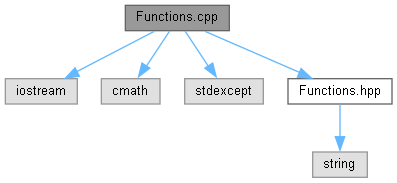
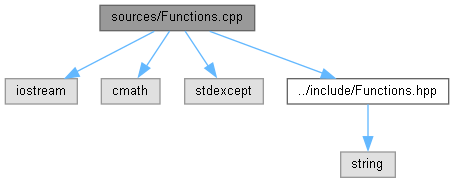
-Added generic Makefile -Moved cpp files to sources dir -Moved hpp file to include dir

Changed region(s): [[0.0, 0.0, 0.9975, 0.5738], [0.7254, 0.5738, 0.937, 0.9836], [0.5139, 0.3279, 0.5441, 0.4098]]

diff --git a/docs/html/_test_class_8cpp.html b/docs/html/_test_class_8cpp.html
@@ -5,7 +5,7 @@
 <meta http-equiv="X-UA-Compatible" content="IE=11"/>
 <meta name="generator" content="Doxygen 1.9.6"/>
 <meta name="viewport" content="width=device-width, initial-scale=1"/>
-<title>My Project: TestClass.cpp File Reference</title>
+<title>My Project: sources/TestClass.cpp File Reference</title>
 <link href="tabs.css" rel="stylesheet" type="text/css"/>
 <script type="text/javascript" src="jquery.js"></script>
 <script type="text/javascript" src="dynsections.js"></script>
@@ -67,6 +67,10 @@ $(function() {
 </div>
 </div>
 
+<div id="nav-path" class="navpath">
+  <ul>
+<li class="navelem"><a class="el" href="dir_08d237fc27d4ecd563f71c5d52f2fecc.html">sources</a></li>  </ul>
+</div>
 </div><!-- top -->
 <div class="header">
   <div class="summary">
@@ -84,22 +88,22 @@ $(function() {
 <code>#include &lt;string&gt;</code><br />
 <code>#include &lt;stdexcept&gt;</code><br />
 <code>#include &lt;limits&gt;</code><br />
-<code>#include &quot;Functions.hpp&quot;</code><br />
-<code>#include &quot;TestClass.hpp&quot;</code><br />
+<code>#include &quot;../include/Functions.hpp&quot;</code><br />
+<code>#include &quot;../include/TestClass.hpp&quot;</code><br />
 </div><div class="textblock"><div class="dynheader">
 Include dependency graph for TestClass.cpp:</div>
 <div class="dyncontent">
-<div class="center"><img src="_test_class_8cpp__incl.png" border="0" usemap="#a_test_class_8cpp" alt=""/></div>
-<map name="a_test_class_8cpp" id="a_test_class_8cpp">
-<area shape="rect" title="This file contains all unit test cases." alt="" coords="274,5,379,31"/>
+<div class="center"><img src="_test_class_8cpp__incl.png" border="0" usemap="#asources_2_test_class_8cpp" alt=""/></div>
+<map name="asources_2_test_class_8cpp" id="asources_2_test_class_8cpp">
+<area shape="rect" title="This file contains all unit test cases." alt="" coords="249,5,404,31"/>
 <area shape="rect" title=" " alt="" coords="5,79,77,104"/>
 <area shape="rect" title=" " alt="" coords="101,79,160,104"/>
 <area shape="rect" title=" " alt="" coords="185,79,250,104"/>
-<area shape="rect" title=" " alt="" coords="531,152,586,177"/>
+<area shape="rect" title=" " alt="" coords="561,152,615,177"/>
 <area shape="rect" title=" " alt="" coords="326,79,405,104"/>
 <area shape="rect" title=" " alt="" coords="429,79,483,104"/>
-<area shape="rect" href="_functions_8hpp_source.html" title=" " alt="" coords="507,79,611,104"/>
-<area shape="rect" href="_test_class_8hpp_source.html" title=" " alt="" coords="635,79,741,104"/>
+<area shape="rect" href="_functions_8hpp_source.html" title=" " alt="" coords="507,79,669,104"/>
+<area shape="rect" href="_test_class_8hpp_source.html" title=" " alt="" coords="693,79,856,104"/>
 </map>
 </div>
 </div><table class="memberdecls">
@@ -216,12 +220,11 @@ Here is the call graph for this function:</div>
 <div class="dyncontent">
 <div class="center"><img src="_test_class_8cpp_ae66f6b31b5ad750f1fe042a706a4e3d4_cgraph.png" border="0" usemap="#a_test_class_8cpp_ae66f6b31b5ad750f1fe042a706a4e3d4_cgraph" alt=""/></div>
 <map name="a_test_class_8cpp_ae66f6b31b5ad750f1fe042a706a4e3d4_cgraph" id="a_test_class_8cpp_ae66f6b31b5ad750f1fe042a706a4e3d4_cgraph">
-<area shape="rect" title="main function for test execution" alt="" coords="5,593,56,618"/>
-<area shape="rect" href="_functions_8cpp.html#ab9802825bb07d45d1b36871feb634842" title="Prints the formatted message log to the console." alt="" coords="192,55,263,81"/>
-<area shape="rect" href="class_test_class.html#acdb914bc37ddc75d993a3497c1906837" title="Tests the mathematical operation function." alt="" coords="143,105,312,145"/>
+<area shape="rect" title="main function for test execution" alt="" coords="5,657,56,682"/>
+<area shape="rect" href="class_test_class.html#acdb914bc37ddc75d993a3497c1906837" title="Tests the mathematical operation function." alt="" coords="143,69,312,109"/>
 <area shape="rect" href="class_test_class.html#a8584cc5b0f527796111519020fb5362e" title="Tests the mathematical operation function." alt="" coords="137,205,318,230"/>
 <area shape="rect" href="class_test_class.html#aef815fdbbf0630c71e4da139d3d039a6" title="Tests the mathematical operation function." alt="" coords="131,561,323,586"/>
-<area shape="rect" href="class_test_class.html#ade2bd5419d1771d979ee59883b80d876" title="Tests the mathematical operation function." alt="" coords="139,617,315,657"/>
+<area shape="rect" href="class_test_class.html#ade2bd5419d1771d979ee59883b80d876" title="Tests the mathematical operation function." alt="" coords="139,649,315,689"/>
 <area shape="rect" href="class_test_class.html#a2065eec463690d60f9d3ae76982eee67" title="Tests the mathematical operation function." alt="" coords="675,705,855,730"/>
 <area shape="rect" href="class_test_class.html#a75b8e610b2260df5b77bfaa2a3fc2927" title="Tests the mathematical operation function." alt="" coords="418,796,594,836"/>
 <area shape="rect" href="class_test_class.html#abd04b0eda3df527b0aa76a0482f6e8ea" title="Tests the mathematical operation function." alt="" coords="146,1026,309,1051"/>

diff --git a/docs/html/dir_08d237fc27d4ecd563f71c5d52f2fecc.html b/docs/html/dir_08d237fc27d4ecd563f71c5d52f2fecc.html
@@ -5,7 +5,7 @@
 <meta http-equiv="X-UA-Compatible" content="IE=11"/>
 <meta name="generator" content="Doxygen 1.9.6"/>
 <meta name="viewport" content="width=device-width, initial-scale=1"/>
-<title>My Project: File List</title>
+<title>My Project: sources Directory Reference</title>
 <link href="tabs.css" rel="stylesheet" type="text/css"/>
 <script type="text/javascript" src="jquery.js"></script>
 <script type="text/javascript" src="dynsections.js"></script>
@@ -46,7 +46,6 @@ $(function() {
 /* @license-end */
 </script>
 <div id="main-nav"></div>
-</div><!-- top -->
 <!-- window showing the filter options -->
 <div id="MSearchSelectWindow"
      onmouseover="return searchBox.OnSearchSelectShow()"
@@ -68,20 +67,25 @@ $(function() {
 </div>
 </div>
 
+<div id="nav-path" class="navpath">
+  <ul>
+<li class="navelem"><a class="el" href="dir_08d237fc27d4ecd563f71c5d52f2fecc.html">sources</a></li>  </ul>
+</div>
+</div><!-- top -->
 <div class="header">
-  <div class="headertitle"><div class="title">File List</div></div>
+  <div class="headertitle"><div class="title">sources Directory Reference</div></div>
 </div><!--header-->
 <div class="contents">
-<div class="textblock">Here is a list of all documented files with brief descriptions:</div><div class="directory">
-<div class="levels">[detail level <span onclick="javascript:toggleLevel(1);">1</span><span onclick="javascript:toggleLevel(2);">2</span>]</div><table class="directory">
-<tr id="row_0_" class="even"><td class="entry"><span style="width:0px;display:inline-block;">&#160;</span><span id="arr_0_" class="arrow" onclick="toggleFolder('0_')">&#9660;</span><span id="img_0_" class="iconfopen" onclick="toggleFolder('0_')">&#160;</span><a class="el" href="dir_d44c64559bbebec7f509842c48db8b23.html" target="_self">include</a></td><td class="desc"></td></tr>
-<tr id="row_0_0_" class="odd"><td class="entry"><span style="width:32px;display:inline-block;">&#160;</span><a href="_functions_8hpp_source.html"><span class="icondoc"></span></a><b>Functions.hpp</b></td><td class="desc"></td></tr>
-<tr id="row_0_1_" class="even"><td class="entry"><span style="width:32px;display:inline-block;">&#160;</span><a href="_test_class_8hpp_source.html"><span class="icondoc"></span></a><b>TestClass.hpp</b></td><td class="desc"></td></tr>
-<tr id="row_1_" class="odd"><td class="entry"><span style="width:0px;display:inline-block;">&#160;</span><span id="arr_1_" class="arrow" onclick="toggleFolder('1_')">&#9660;</span><span id="img_1_" class="iconfopen" onclick="toggleFolder('1_')">&#160;</span><a class="el" href="dir_08d237fc27d4ecd563f71c5d52f2fecc.html" target="_self">sources</a></td><td class="desc"></td></tr>
-<tr id="row_1_0_" class="even"><td class="entry"><span style="width:32px;display:inline-block;">&#160;</span><span class="icondoc"></span><a class="el" href="_functions_8cpp.html" target="_self">Functions.cpp</a></td><td class="desc">This file contains the implementation of mathematical function operations </td></tr>
-<tr id="row_1_1_" class="odd"><td class="entry"><span style="width:32px;display:inline-block;">&#160;</span><span class="icondoc"></span><a class="el" href="_test_class_8cpp.html" target="_self">TestClass.cpp</a></td><td class="desc">This file contains all unit test cases </td></tr>
+<table class="memberdecls">
+<tr class="heading"><td colspan="2"><h2 class="groupheader"><a id="files" name="files"></a>
+Files</h2></td></tr>
+<tr class="memitem:"><td class="memItemLeft" align="right" valign="top">file &#160;</td><td class="memItemRight" valign="bottom"><a class="el" href="_functions_8cpp.html">Functions.cpp</a></td></tr>
+<tr class="memdesc:_functions_8cpp"><td class="mdescLeft">&#160;</td><td class="mdescRight">This file contains the implementation of mathematical function operations. <br /></td></tr>
+<tr class="separator:"><td class="memSeparator" colspan="2">&#160;</td></tr>
+<tr class="memitem:"><td class="memItemLeft" align="right" valign="top">file &#160;</td><td class="memItemRight" valign="bottom"><a class="el" href="_test_class_8cpp.html">TestClass.cpp</a></td></tr>
+<tr class="memdesc:_test_class_8cpp"><td class="mdescLeft">&#160;</td><td class="mdescRight">This file contains all unit test cases. <br /></td></tr>
+<tr class="separator:"><td class="memSeparator" colspan="2">&#160;</td></tr>
 </table>
-</div><!-- directory -->
 </div><!-- contents -->
 <!-- start footer part -->
 <hr class="footer"/><address class="footer"><small>

diff --git a/docs/html/_functions_8hpp_source.html b/docs/html/_functions_8hpp_source.html
@@ -5,7 +5,7 @@
 <meta http-equiv="X-UA-Compatible" content="IE=11"/>
 <meta name="generator" content="Doxygen 1.9.6"/>
 <meta name="viewport" content="width=device-width, initial-scale=1"/>
-<title>My Project: Functions.hpp Source File</title>
+<title>My Project: include/Functions.hpp Source File</title>
 <link href="tabs.css" rel="stylesheet" type="text/css"/>
 <script type="text/javascript" src="jquery.js"></script>
 <script type="text/javascript" src="dynsections.js"></script>
@@ -46,7 +46,6 @@ $(function() {
 /* @license-end */
 </script>
 <div id="main-nav"></div>
-</div><!-- top -->
 <!-- window showing the filter options -->
 <div id="MSearchSelectWindow"
      onmouseover="return searchBox.OnSearchSelectShow()"
@@ -68,6 +67,11 @@ $(function() {
 </div>
 </div>
 
+<div id="nav-path" class="navpath">
+  <ul>
+<li class="navelem"><a class="el" href="dir_d44c64559bbebec7f509842c48db8b23.html">include</a></li>  </ul>
+</div>
+</div><!-- top -->
 <div class="header">
   <div class="headertitle"><div class="title">Functions.hpp</div></div>
 </div><!--header-->
@@ -81,7 +85,7 @@ $(function() {
 <div class="line"><a id="l00007" name="l00007"></a><span class="lineno">    7</span> </div>
 <div class="line"><a id="l00009" name="l00009"></a><span class="lineno">    9</span><span class="keyword">const</span> <span class="keywordtype">int</span> LOG_LENGTH = 300;</div>
 <div class="line"><a id="l00010" name="l00010"></a><span class="lineno">   10</span> </div>
-<div class="line"><a id="l00019" name="l00019"></a><span class="lineno">   19</span><span class="keywordtype">void</span> <a class="code hl_function" href="_functions_8cpp.html#ab9802825bb07d45d1b36871feb634842">print_log</a>(<span class="keyword">const</span> std::string&amp; filename,</div>
+<div class="line"><a id="l00019" name="l00019"></a><span class="lineno">   19</span><span class="keywordtype">void</span> print_log(<span class="keyword">const</span> std::string&amp; filename,</div>
 <div class="line"><a id="l00020" name="l00020"></a><span class="lineno">   20</span>               <span class="keywordtype">int</span>                line,</div>
 <div class="line"><a id="l00021" name="l00021"></a><span class="lineno">   21</span>               <span class="keyword">const</span> std::string&amp; function,</div>
 <div class="line"><a id="l00022" name="l00022"></a><span class="lineno">   22</span>               <span class="keyword">const</span> std::string&amp; message);</div>
@@ -139,7 +143,6 @@ $(function() {
 <div class="line"><a id="l00191" name="l00191"></a><span class="lineno">  191</span> </div>
 <div class="line"><a id="l00199" name="l00199"></a><span class="lineno">  199</span>        <span class="keywordtype">double</span> <a class="code hl_function" href="class_functions.html#aac57569bf53236a9008c3f68b6b59564">getDividedValue</a>(<span class="keywordtype">int</span> a, <span class="keywordtype">int</span> b);</div>
 <div class="line"><a id="l00200" name="l00200"></a><span class="lineno">  200</span>};</div>
-<div class="ttc" id="a_functions_8cpp_html_ab9802825bb07d45d1b36871feb634842"><div class="ttname"><a href="_functions_8cpp.html#ab9802825bb07d45d1b36871feb634842">print_log</a></div><div class="ttdeci">void print_log(const std::string &amp;filename, int line, const std::string &amp;function, const std::string &amp;message)</div><div class="ttdoc">Prints the formatted message log to the console.</div><div class="ttdef"><b>Definition:</b> Functions.cpp:29</div></div>
 <div class="ttc" id="aclass_functions_html"><div class="ttname"><a href="class_functions.html">Functions</a></div><div class="ttdef"><b>Definition:</b> Functions.hpp:26</div></div>
 <div class="ttc" id="aclass_functions_html_a1619633ca4f9b1dc74b6d13232132160"><div class="ttname"><a href="class_functions.html#a1619633ca4f9b1dc74b6d13232132160">Functions::get_mVar2</a></div><div class="ttdeci">int get_mVar2()</div><div class="ttdoc">Get param value.</div><div class="ttdef"><b>Definition:</b> Functions.cpp:76</div></div>
 <div class="ttc" id="aclass_functions_html_a16e37d628b977b30cfda893cde929344"><div class="ttname"><a href="class_functions.html#a16e37d628b977b30cfda893cde929344">Functions::set_mMax_average_value</a></div><div class="ttdeci">void set_mMax_average_value(int value)</div><div class="ttdoc">Sets param value.</div><div class="ttdef"><b>Definition:</b> Functions.cpp:61</div></div>

diff --git a/docs/html/dir_d44c64559bbebec7f509842c48db8b23.html b/docs/html/dir_d44c64559bbebec7f509842c48db8b23.html
@@ -5,7 +5,7 @@
 <meta http-equiv="X-UA-Compatible" content="IE=11"/>
 <meta name="generator" content="Doxygen 1.9.6"/>
 <meta name="viewport" content="width=device-width, initial-scale=1"/>
-<title>My Project: File List</title>
+<title>My Project: include Directory Reference</title>
 <link href="tabs.css" rel="stylesheet" type="text/css"/>
 <script type="text/javascript" src="jquery.js"></script>
 <script type="text/javascript" src="dynsections.js"></script>
@@ -46,7 +46,6 @@ $(function() {
 /* @license-end */
 </script>
 <div id="main-nav"></div>
-</div><!-- top -->
 <!-- window showing the filter options -->
 <div id="MSearchSelectWindow"
      onmouseover="return searchBox.OnSearchSelectShow()"
@@ -68,20 +67,23 @@ $(function() {
 </div>
 </div>
 
+<div id="nav-path" class="navpath">
+  <ul>
+<li class="navelem"><a class="el" href="dir_d44c64559bbebec7f509842c48db8b23.html">include</a></li>  </ul>
+</div>
+</div><!-- top -->
 <div class="header">
-  <div class="headertitle"><div class="title">File List</div></div>
+  <div class="headertitle"><div class="title">include Directory Reference</div></div>
 </div><!--header-->
 <div class="contents">
-<div class="textblock">Here is a list of all documented files with brief descriptions:</div><div class="directory">
-<div class="levels">[detail level <span onclick="javascript:toggleLevel(1);">1</span><span onclick="javascript:toggleLevel(2);">2</span>]</div><table class="directory">
-<tr id="row_0_" class="even"><td class="entry"><span style="width:0px;display:inline-block;">&#160;</span><span id="arr_0_" class="arrow" onclick="toggleFolder('0_')">&#9660;</span><span id="img_0_" class="iconfopen" onclick="toggleFolder('0_')">&#160;</span><a class="el" href="dir_d44c64559bbebec7f509842c48db8b23.html" target="_self">include</a></td><td class="desc"></td></tr>
-<tr id="row_0_0_" class="odd"><td class="entry"><span style="width:32px;display:inline-block;">&#160;</span><a href="_functions_8hpp_source.html"><span class="icondoc"></span></a><b>Functions.hpp</b></td><td class="desc"></td></tr>
-<tr id="row_0_1_" class="even"><td class="entry"><span style="width:32px;display:inline-block;">&#160;</span><a href="_test_class_8hpp_source.html"><span class="icondoc"></span></a><b>TestClass.hpp</b></td><td class="desc"></td></tr>
-<tr id="row_1_" class="odd"><td class="entry"><span style="width:0px;display:inline-block;">&#160;</span><span id="arr_1_" class="arrow" onclick="toggleFolder('1_')">&#9660;</span><span id="img_1_" class="iconfopen" onclick="toggleFolder('1_')">&#160;</span><a class="el" href="dir_08d237fc27d4ecd563f71c5d52f2fecc.html" target="_self">sources</a></td><td class="desc"></td></tr>
-<tr id="row_1_0_" class="even"><td class="entry"><span style="width:32px;display:inline-block;">&#160;</span><span class="icondoc"></span><a class="el" href="_functions_8cpp.html" target="_self">Functions.cpp</a></td><td class="desc">This file contains the implementation of mathematical function operations </td></tr>
-<tr id="row_1_1_" class="odd"><td class="entry"><span style="width:32px;display:inline-block;">&#160;</span><span class="icondoc"></span><a class="el" href="_test_class_8cpp.html" target="_self">TestClass.cpp</a></td><td class="desc">This file contains all unit test cases </td></tr>
+<table class="memberdecls">
+<tr class="heading"><td colspan="2"><h2 class="groupheader"><a id="files" name="files"></a>
+Files</h2></td></tr>
+<tr class="memitem:"><td class="memItemLeft" align="right" valign="top">file &#160;</td><td class="memItemRight" valign="bottom"><b>Functions.hpp</b> <a href="_functions_8hpp_source.html">[code]</a></td></tr>
+<tr class="separator:"><td class="memSeparator" colspan="2">&#160;</td></tr>
+<tr class="memitem:"><td class="memItemLeft" align="right" valign="top">file &#160;</td><td class="memItemRight" valign="bottom"><b>TestClass.hpp</b> <a href="_test_class_8hpp_source.html">[code]</a></td></tr>
+<tr class="separator:"><td class="memSeparator" colspan="2">&#160;</td></tr>
 </table>
-</div><!-- directory -->
 </div><!-- contents -->
 <!-- start footer part -->
 <hr class="footer"/><address class="footer"><small>

diff --git a/docs/html/dir_4fef79e7177ba769987a8da36c892c5f.html b/docs/html/dir_4fef79e7177ba769987a8da36c892c5f.html
@@ -5,7 +5,7 @@
 <meta http-equiv="X-UA-Compatible" content="IE=11"/>
 <meta name="generator" content="Doxygen 1.9.6"/>
 <meta name="viewport" content="width=device-width, initial-scale=1"/>
-<title>My Project: File List</title>
+<title>My Project: build Directory Reference</title>
 <link href="tabs.css" rel="stylesheet" type="text/css"/>
 <script type="text/javascript" src="jquery.js"></script>
 <script type="text/javascript" src="dynsections.js"></script>
@@ -46,7 +46,6 @@ $(function() {
 /* @license-end */
 </script>
 <div id="main-nav"></div>
-</div><!-- top -->
 <!-- window showing the filter options -->
 <div id="MSearchSelectWindow"
      onmouseover="return searchBox.OnSearchSelectShow()"
@@ -68,20 +67,15 @@ $(function() {
 </div>
 </div>
 
+<div id="nav-path" class="navpath">
+  <ul>
+<li class="navelem"><a class="el" href="dir_4fef79e7177ba769987a8da36c892c5f.html">build</a></li>  </ul>
+</div>
+</div><!-- top -->
 <div class="header">
-  <div class="headertitle"><div class="title">File List</div></div>
+  <div class="headertitle"><div class="title">build Directory Reference</div></div>
 </div><!--header-->
 <div class="contents">
-<div class="textblock">Here is a list of all documented files with brief descriptions:</div><div class="directory">
-<div class="levels">[detail level <span onclick="javascript:toggleLevel(1);">1</span><span onclick="javascript:toggleLevel(2);">2</span>]</div><table class="directory">
-<tr id="row_0_" class="even"><td class="entry"><span style="width:0px;display:inline-block;">&#160;</span><span id="arr_0_" class="arrow" onclick="toggleFolder('0_')">&#9660;</span><span id="img_0_" class="iconfopen" onclick="toggleFolder('0_')">&#160;</span><a class="el" href="dir_d44c64559bbebec7f509842c48db8b23.html" target="_self">include</a></td><td class="desc"></td></tr>
-<tr id="row_0_0_" class="odd"><td class="entry"><span style="width:32px;display:inline-block;">&#160;</span><a href="_functions_8hpp_source.html"><span class="icondoc"></span></a><b>Functions.hpp</b></td><td class="desc"></td></tr>
-<tr id="row_0_1_" class="even"><td class="entry"><span style="width:32px;display:inline-block;">&#160;</span><a href="_test_class_8hpp_source.html"><span class="icondoc"></span></a><b>TestClass.hpp</b></td><td class="desc"></td></tr>
-<tr id="row_1_" class="odd"><td class="entry"><span style="width:0px;display:inline-block;">&#160;</span><span id="arr_1_" class="arrow" onclick="toggleFolder('1_')">&#9660;</span><span id="img_1_" class="iconfopen" onclick="toggleFolder('1_')">&#160;</span><a class="el" href="dir_08d237fc27d4ecd563f71c5d52f2fecc.html" target="_self">sources</a></td><td class="desc"></td></tr>
-<tr id="row_1_0_" class="even"><td class="entry"><span style="width:32px;display:inline-block;">&#160;</span><span class="icondoc"></span><a class="el" href="_functions_8cpp.html" target="_self">Functions.cpp</a></td><td class="desc">This file contains the implementation of mathematical function operations </td></tr>
-<tr id="row_1_1_" class="odd"><td class="entry"><span style="width:32px;display:inline-block;">&#160;</span><span class="icondoc"></span><a class="el" href="_test_class_8cpp.html" target="_self">TestClass.cpp</a></td><td class="desc">This file contains all unit test cases </td></tr>
-</table>
-</div><!-- directory -->
 </div><!-- contents -->
 <!-- start footer part -->
 <hr class="footer"/><address class="footer"><small>

diff --git a/docs/html/_functions_8cpp.html b/docs/html/_functions_8cpp.html
@@ -5,7 +5,7 @@
 <meta http-equiv="X-UA-Compatible" content="IE=11"/>
 <meta name="generator" content="Doxygen 1.9.6"/>
 <meta name="viewport" content="width=device-width, initial-scale=1"/>
-<title>My Project: Functions.cpp File Reference</title>
+<title>My Project: sources/Functions.cpp File Reference</title>
 <link href="tabs.css" rel="stylesheet" type="text/css"/>
 <script type="text/javascript" src="jquery.js"></script>
 <script type="text/javascript" src="dynsections.js"></script>
@@ -67,6 +67,10 @@ $(function() {
 </div>
 </div>
 
+<div id="nav-path" class="navpath">
+  <ul>
+<li class="navelem"><a class="el" href="dir_08d237fc27d4ecd563f71c5d52f2fecc.html">sources</a></li>  </ul>
+</div>
 </div><!-- top -->
 <div class="header">
   <div class="summary">
@@ -81,18 +85,18 @@ $(function() {
 <div class="textblock"><code>#include &lt;iostream&gt;</code><br />
 <code>#include &lt;cmath&gt;</code><br />
 <code>#include &lt;stdexcept&gt;</code><br />
-<code>#include &quot;Functions.hpp&quot;</code><br />
+<code>#include &quot;../include/Functions.hpp&quot;</code><br />
 </div><div class="textblock"><div class="dynheader">
 Include dependency graph for Functions.cpp:</div>
 <div class="dyncontent">
-<div class="center"><img src="_functions_8cpp__incl.png" border="0" usemap="#a_functions_8cpp" alt=""/></div>
-<map name="a_functions_8cpp" id="a_functions_8cpp">
-<area shape="rect" title="This file contains the implementation of mathematical function operations." alt="" coords="125,5,229,31"/>
+<div class="center"><img src="_functions_8cpp__incl.png" border="0" usemap="#asources_2_functions_8cpp" alt=""/></div>
+<map name="asources_2_functions_8cpp" id="asources_2_functions_8cpp">
+<area shape="rect" title="This file contains the implementation of mathematical function operations." alt="" coords="100,5,255,31"/>
 <area shape="rect" title=" " alt="" coords="5,79,77,104"/>
 <area shape="rect" title=" " alt="" coords="101,79,160,104"/>
 <area shape="rect" title=" " alt="" coords="185,79,263,104"/>
-<area shape="rect" href="_functions_8hpp_source.html" title=" " alt="" coords="288,79,392,104"/>
-<area shape="rect" title=" " alt="" coords="313,152,367,177"/>
+<area shape="rect" href="_functions_8hpp_source.html" title=" " alt="" coords="287,79,449,104"/>
+<area shape="rect" title=" " alt="" coords="341,152,395,177"/>
 </map>
 </div>
 </div><table class="memberdecls">
@@ -175,15 +179,6 @@ Functions</h2></td></tr>
   </table>
   </dd>
 </dl>
-<div class="dynheader">
-Here is the caller graph for this function:</div>
-<div class="dyncontent">
-<div class="center"><img src="_functions_8cpp_ab9802825bb07d45d1b36871feb634842_icgraph.png" border="0" usemap="#a_functions_8cpp_ab9802825bb07d45d1b36871feb634842_icgraph" alt=""/></div>
-<map name="a_functions_8cpp_ab9802825bb07d45d1b36871feb634842_icgraph" id="a_functions_8cpp_ab9802825bb07d45d1b36871feb634842_icgraph">
-<area shape="rect" title="Prints the formatted message log to the console." alt="" coords="104,5,175,31"/>
-<area shape="rect" href="_test_class_8cpp.html#ae66f6b31b5ad750f1fe042a706a4e3d4" title="main function for test execution" alt="" coords="5,5,56,31"/>
-</map>
-</div>
 
 </div>
 </div>

diff --git a/docs/html/_test_class_8hpp_source.html b/docs/html/_test_class_8hpp_source.html
@@ -5,7 +5,7 @@
 <meta http-equiv="X-UA-Compatible" content="IE=11"/>
 <meta name="generator" content="Doxygen 1.9.6"/>
 <meta name="viewport" content="width=device-width, initial-scale=1"/>
-<title>My Project: TestClass.hpp Source File</title>
+<title>My Project: include/TestClass.hpp Source File</title>
 <link href="tabs.css" rel="stylesheet" type="text/css"/>
 <script type="text/javascript" src="jquery.js"></script>
 <script type="text/javascript" src="dynsections.js"></script>
@@ -46,7 +46,6 @@ $(function() {
 /* @license-end */
 </script>
 <div id="main-nav"></div>
-</div><!-- top -->
 <!-- window showing the filter options -->
 <div id="MSearchSelectWindow"
      onmouseover="return searchBox.OnSearchSelectShow()"
@@ -68,6 +67,11 @@ $(function() {
 </div>
 </div>
 
+<div id="nav-path" class="navpath">
+  <ul>
+<li class="navelem"><a class="el" href="dir_d44c64559bbebec7f509842c48db8b23.html">include</a></li>  </ul>
+</div>
+</div><!-- top -->
 <div class="header">
   <div class="headertitle"><div class="title">TestClass.hpp</div></div>
 </div><!--header-->

diff --git a/docs/html/class_test_class.html b/docs/html/class_test_class.html
@@ -1250,8 +1250,8 @@ Here is the caller graph for this function:</div>
 </div>
 </div>
 <hr/>The documentation for this class was generated from the following files:<ul>
-<li><a class="el" href="_test_class_8hpp_source.html">TestClass.hpp</a></li>
-<li><a class="el" href="_test_class_8cpp.html">TestClass.cpp</a></li>
+<li>include/<a class="el" href="_test_class_8hpp_source.html">TestClass.hpp</a></li>
+<li>sources/<a class="el" href="_test_class_8cpp.html">TestClass.cpp</a></li>
 </ul>
 </div><!-- contents -->
 <!-- start footer part -->

diff --git a/docs/html/class_functions.html b/docs/html/class_functions.html
@@ -1015,8 +1015,8 @@ Here is the caller graph for this function:</div>
 </div>
 </div>
 <hr/>The documentation for this class was generated from the following files:<ul>
-<li><a class="el" href="_functions_8hpp_source.html">Functions.hpp</a></li>
-<li><a class="el" href="_functions_8cpp.html">Functions.cpp</a></li>
+<li>include/<a class="el" href="_functions_8hpp_source.html">Functions.hpp</a></li>
+<li>sources/<a class="el" href="_functions_8cpp.html">Functions.cpp</a></li>
 </ul>
 </div><!-- contents -->
 <!-- start footer part -->

diff --git a/sources/TestClass.cpp b/sources/TestClass.cpp
@@ -15,8 +15,8 @@
 #include <stdexcept>
 #include <limits>
 
-#include "Functions.hpp"
-#include "TestClass.hpp"
+#include "../include/Functions.hpp"
+#include "../include/TestClass.hpp"
 
 #ifndef TESTCLASS_HPP_INCLUDED
 #define TESTCLASS_HPP_INCLUDED

diff --git a/sources/Functions.cpp b/sources/Functions.cpp
@@ -14,7 +14,7 @@
 #include <cmath>
 #include <stdexcept>
 
-#include "Functions.hpp"
+#include "../include/Functions.hpp"
 
 #ifndef FUNCTIONS_HPP_INCLUDED
 #define FUNCTIONS_HPP_INCLUDED
